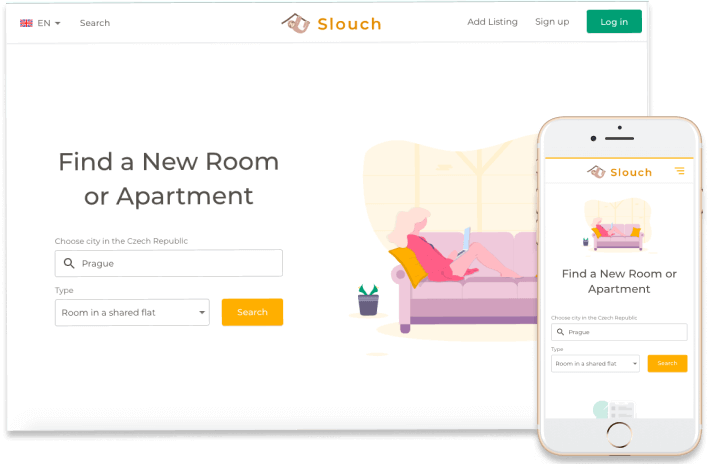
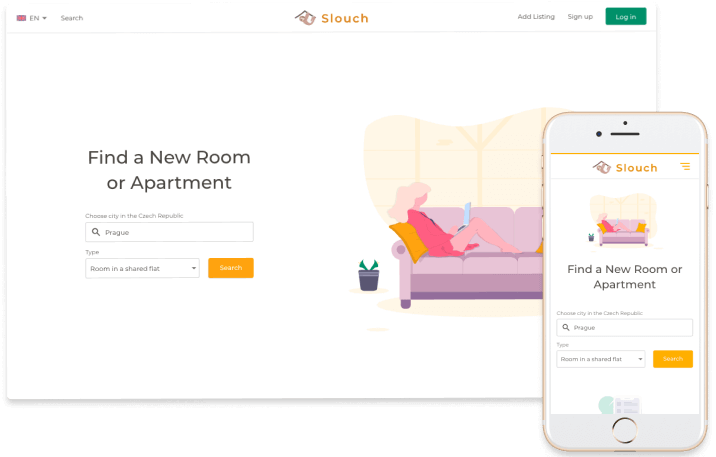
Changing slouch image

diff --git a/src/index.html b/src/index.html
@@ -82,7 +82,7 @@
                                 <button type="button" class="rightButton" data-action="slideRight"
                                     aria-label="Previous"> </button>
                             </div>
-                            <img class="portfolioContentImage_img" src="assets/slouch2.png"
+                            <img class="portfolioContentImage_img" src="assets/slouch.png"
                                 alt="Slouch website">
                             <h3>Slouch.cz</h3>
                         </div>
